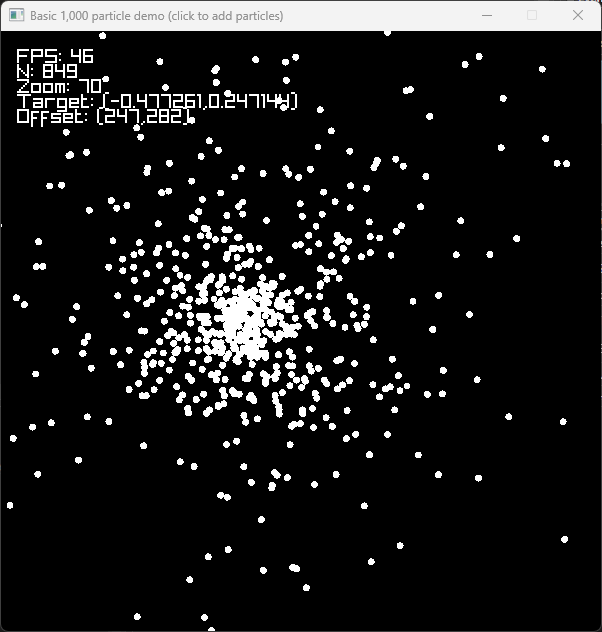
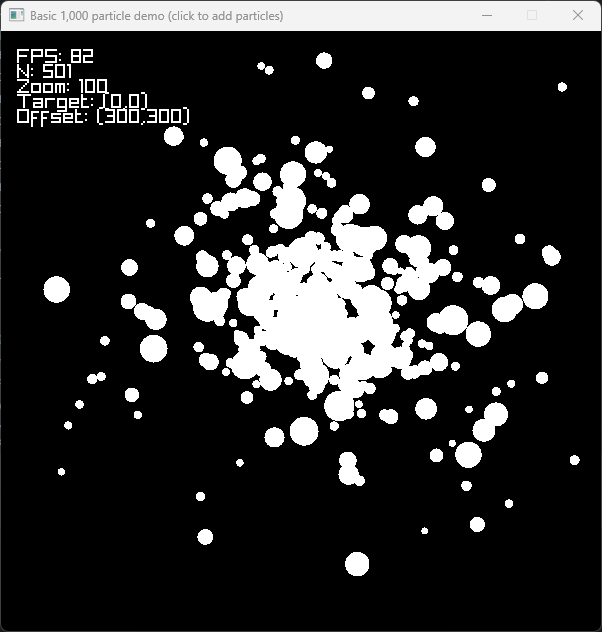
General cleanup

diff --git a/demo/main.cpp b/demo/main.cpp
@@ -22,11 +22,12 @@ static int do_main() {
     return std::abs(p.xy) > 5'000.0f;
   };
 
-  // Quasi-random number generator.
+  // Quasi-random number generator; uniform distribution on (0, 1).
   // - Quality not so important.
-  // - Possibly reduce binary size by reusing code.
-  // - Possibly help with instruction cache by having simple code.
-  // - Definitely small state (1 short int vs. compared to, say, mt19937).
+  // - Small state (only a single short int).
+  // - Simple code (a single loop).
+  // - Code is used in other places; possibility of inlining (as the compiler
+  // judges is appropriate).
   dyn::Halton qrng;
   auto normal_variate = [&qrng]() {
     auto &q = qrng;
@@ -36,8 +37,8 @@ static int do_main() {
   // Make a particle at rest at the origin with a random mass and radius.
   auto random_particle = [&normal_variate]() {
     // Random mass and radius, but not other properties.
-    auto mass = std::exp(normal_variate());
-    auto radius = std::exp(2.0f * normal_variate() - 3.0f);
+    auto mass = MASS * std::exp(normal_variate());
+    auto radius = RADIUS * std::exp(2.0f * normal_variate());
     // xy, v, m, r.
     return Particle{{0}, {0}, mass, radius};
   };
@@ -47,34 +48,39 @@ static int do_main() {
   // The physical table (store particles, etc.); backup.
   Table table, table0;
 
-  // Make the mystical figure-8 shape below work at first.
-  // (This G value is too large in most cases, so lower it once the user starts
-  // interacting with the world.)
-  table.G = 1.0f;
-
-  // Get started with three particles in a figure-8 shape.
+  // In demo mode (default), show three particles in a figure-8 shape.
   {
-    // Position, velocity.
-    std::complex<float> _c0{-0.97000436f, 0.24308753f},
-        _v0{0.4662036850f, 0.4323657300f}, _v1{-0.93240737f, -0.86473146f};
+    // Make the mystical figure-8 shape below work at first.
+    // (This G value is too large in most cases, so I will lower it once the
+    // user starts interacting with the world, exiting the demo mode.)
+    table.G = 1.0f;
+
+    // Positions (c...), and velocities (v...)
+    std::complex<float> c0{-0.97000436f, 0.24308753f},
+        v0{0.4662036850f, 0.4323657300f}, v1{-0.93240737f, -0.86473146f};
 
     // Position, velocity, mass, radius
-    table.emplace_back(_c0, _v0, MASS, RADIUS);
-    table.emplace_back(0.0f, _v1, MASS, RADIUS);
-    table.emplace_back(-_c0, _v0, MASS, RADIUS);
+    table.emplace_back(c0, v0, MASS, RADIUS);
+    table.emplace_back(0.0f, v1, MASS, RADIUS);
+    table.emplace_back(-c0, v0, MASS, RADIUS);
   }
 
   // Initial version of the table (backup).
   table0 = table;
 
-  // Information to show or not.
+  // Flag for information to show.
   struct {
+    // Show FPS.
     bool fps : 1 {};
+    // Show the number of particles.
     bool n_particles : 1 {};
+    // Show debug information about the camera.
     bool cam : 1 {};
+    // Decide whether any flag is set.
     [[nodiscard]] constexpr bool any() const {
       return fps || n_particles || cam;
     }
+    // Rotate to the next option.
     constexpr void next() {
       if (!fps)
         fps = n_particles = cam = true;
@@ -85,13 +91,19 @@ static int do_main() {
     }
   } show;
 
-  // If set, then the user intends to interact.
+  // Interactive variables and flags.
+  // (By itself, it returns whether the simulation is in interactive mode
+  // [true] or demo mode [false]).
   struct {
+    // If set, then the user intends to interact.
     bool on : 1 {};
+    // If set, skip spawning in this frame when user asks to spawn a particle.
     bool spawned_last_frame : 1 {};
-    bool other_user_manip : 1 {};
+    // Do not advance the simulation in this frame.
     bool freeze : 1 {};
+    // Target FPS.
     unsigned short target_fps{90};
+    // Last time the simulation began or reset, seconds.
     double last_sec{GetTime()};
     constexpr explicit operator bool() const { return on; }
     [[nodiscard]] constexpr float target_dt() const {
@@ -101,12 +113,15 @@ static int do_main() {
 
   SetTargetFPS(interactive.target_fps);
   Camera2D cam{}, cam0{};
-  cam.zoom = 100.0f;
+  cam.zoom = 100.0f; // [L] / [px] where L = world length unit; px = pixels.
   cam.offset = {float(GetScreenWidth()) / 2.0f,
                 float(GetScreenHeight()) / 2.0f};
   cam0 = cam;
 
   while (!WindowShouldClose()) {
+    // Apply variable time.
+    // FIXME: The integrators Yoshida and Verlet currently do not support
+    //  variable time; numerical errors may occur (but not programming errors).
     float dt = interactive ? GetFrameTime() : interactive.target_dt();
 
     // Reset the simulation (R) if asked.
@@ -138,8 +153,11 @@ static int do_main() {
       cam.target = y;
     }
 
-    // Zoom with the wheel.
-    if (float wheel = GetMouseWheelMove()) {
+    // Zoom with the wheel if given.
+    // dwheel: usually -1.0f or 1.0f with computer mouse [but may be different].
+    if (auto dwheel = GetMouseWheelMove()) {
+      // dwheel != 0
+
       auto u = GetMousePosition();
       auto v = GetScreenToWorld2D(u, cam);
 
@@ -147,7 +165,7 @@ static int do_main() {
       cam.target = v;
 
       auto constexpr ZOOM_INCR = 10.0f;
-      cam.zoom += wheel * ZOOM_INCR;
+      cam.zoom += dwheel * ZOOM_INCR;
       cam.zoom = std::max(cam.zoom, ZOOM_INCR);
       cam.zoom = std::min(cam.zoom, 20 * ZOOM_INCR);
     }
@@ -157,9 +175,6 @@ static int do_main() {
     if (IsMouseButtonDown(MOUSE_BUTTON_LEFT)) {
       // Set interactive.
       interactive.on = true;
-
-      // The user is manipulating it right now.
-      interactive.other_user_manip = true;
 
       // When interactive, lower the gravitational constant.
       table.G = 0.015625f;
@@ -189,26 +204,21 @@ static int do_main() {
       interactive.spawned_last_frame = true;
     } else {
       interactive.spawned_last_frame = false;
-
-      // The user has stopped manipulating.
-      interactive.other_user_manip = false;
     }
 
   simulate:
     // Do the simulation!
-    if (!interactive.freeze)
+    if (!interactive.freeze) {
       table.step(dt);
+      // Remove statistical bias in collision handling routine.
+      // (See refresh_disk()'s comments for details.)
+      table.refresh_disk();
 
-    table.refresh_disk();
-
-    // Don't be moving the particles while it's being manipulated.
-    // if (!interactive.spawned_last_frame && !interactive.other_user_manip)
-    // table.center();
-
-    // Inspect floating point exceptions.
-    if (!table.good())
-      // NaN or infinity somewhere. Reset the simulation.
-      goto reset_sim;
+      // Inspect for such things as NaN and Infinity.
+      if (!table.good())
+        // NaN or infinity somewhere. Reset the simulation.
+        goto reset_sim;
+    }
 
     BeginDrawing();
     ClearBackground(BLACK);
@@ -222,12 +232,15 @@ static int do_main() {
       std::complex<float> scwh{float(GetScreenWidth()),
                                float(GetScreenHeight())};
       std::complex<float> scof{cam.offset.x, cam.offset.y};
-      auto scsc = (scwh - scof) / cam.zoom;
       std::complex<float> sctg{cam.target.x, cam.target.y};
-      auto ll = sctg - scof / cam.zoom, gg = sctg + scsc;
+      scof /= cam.zoom;
+      auto scsc = scwh / cam.zoom - scof;
+      auto ll = sctg - scof, gg = sctg + scsc;
       for (auto &&p : table) {
         auto cp = p.circle();
         if (dyn::disk_arrect_isct(cp, ll, gg))
+          // Yes, the particle (p) is certainly overlapping with the
+          // rectangle with the corners ll and gg; draw it.
           DrawCircleV({cp.real(), cp.imag()}, cp.radius, WHITE);
       }
     }
@@ -235,6 +248,8 @@ static int do_main() {
 
     // Compose text and show it.
     {
+      // The standard library understands how to format a complex number, but,
+      // understandably, knows nothing about Raylib's custom vector types.
       auto constexpr v2c = [](Vector2 v) {
         return std::complex<float>{v.x, v.y};
       };

diff --git a/demo/Table.h b/demo/Table.h
@@ -74,9 +74,10 @@ public:
       // accel:
       // Supposing that particle p is located instead at the position xy below,
       // what is the acceleration experienced by p due to all the other
-      // particles?
+      // particles (q)?
       auto accel = [&](auto xy) {
         dyn::Kahan<std::complex<float>> a;
+        // NOTE: the nested loop begins here.
         for (auto &&q : *this) {
           if (&p != &q) {
             dyn::Circle<float> cp{xy, p.radius}, cq = q.circle();
@@ -95,28 +96,16 @@ public:
     *this = copy;
   }
 
-  void center() noexcept {
-    // Use double precision for the dynamic range.
-    dyn::Kahan<C<>> cm;
-    dyn::Kahan<double> m;
-    for (auto &&p : *this)
-      cm += double(p.mass) * C<>(p.xy), m += double(p.mass);
-    auto c = C<float>(cm() / m());
-    for (auto &&p : *this)
-      p.xy -= c;
-  }
-
   /// @brief Refresh the "disk" used for parts of the calculation.
   void refresh_disk() noexcept { gr.refresh_disk(); }
 
   /// @brief Test whether the simulation is in "good state."
   bool good() noexcept {
-    auto constexpr goodf = [](float f) { return std::isfinite(f); };
-    auto constexpr goodc = [](std::complex<float> f) {
+    auto constexpr finite = [](std::complex<float> f) {
       return std::isfinite(f.real()) && std::isfinite(f.imag());
     };
     for (auto &&p : *this)
-      if (!goodc(p.xy) || !goodc(p.v))
+      if (!finite(p.xy) || !finite(p.v))
         return false;
     return true;
   }

diff --git a/dyn/circle.h b/dyn/circle.h
@@ -42,21 +42,25 @@ bool origin_disk_arrect_isct(F radius, std::complex<F> const &ll,
            -radius < gg.imag();
   };
 
-  // The rectangle is not touching the bounding square of the circle.
-  if (!arrec_arsq_isct(radius))
-    return false;
-
   // The rectangle is touching the interior square of the circle.
   if (arrec_arsq_isct(radius * sc45))
     return true;
 
+  // The rectangle is not touching the bounding square of the circle.
+  if (!arrec_arsq_isct(radius))
+    return false;
+
   // At least one of the four corners of the given rectangle is in the disk.
-  F cc[4] = {std::abs(ll), std::abs(gg),
-             std::abs(std::complex<F>{ll.real(), gg.imag()}),
-             std::abs(std::complex<F>{gg.real(), ll.imag()})};
-  for (auto &&c : cc)
-    if (c < radius)
-      return true;
+  // (Usually less than 1% of the cases even reach here in the demo as of
+  // writing.)
+  if (std::abs(ll) < radius)
+    return true;
+  if (std::abs(gg) < radius)
+    return true;
+  if (std::abs(std::complex<F>{ll.real(), gg.imag()}) < radius)
+    return true;
+  if (std::abs(std::complex<F>{gg.real(), ll.imag()}) < radius)
+    return true;
 
   // They aren't touching.
   return false;

diff --git a/dyn/README.md b/dyn/README.md
@@ -96,8 +96,18 @@ In kahan.h (Kahan class):
   Kahan's summation is fast but presumably not vectorizable and requires subnormal numbers to exist. Hence, I recommend
   that compensated summation be used immediately outside the "hot inner loops" unless numerical analysis says otherwise.
 
-Other files:
+Integrators:
+
+Both integrators are symplectic (area-preserving; this mostly means energy-preserving), a feature necessary for the
+statistical accuracy of the simulation.
+
+- yoshida.h (Yoshida class)
+- verlet.h (Verlet class)
+
+Others:
 
 - circle.h (Circle class)
+    - Collision detection between the area inside a circle (disk) and the area inside a rectangle. (Vulnerable to
+      degeneracies).
 - halton.h (Halton class)
-- yoshida.h (Yoshida class)
+    - Quasi-random number generator on the interval (0, 1) with a uniform random distribution.
